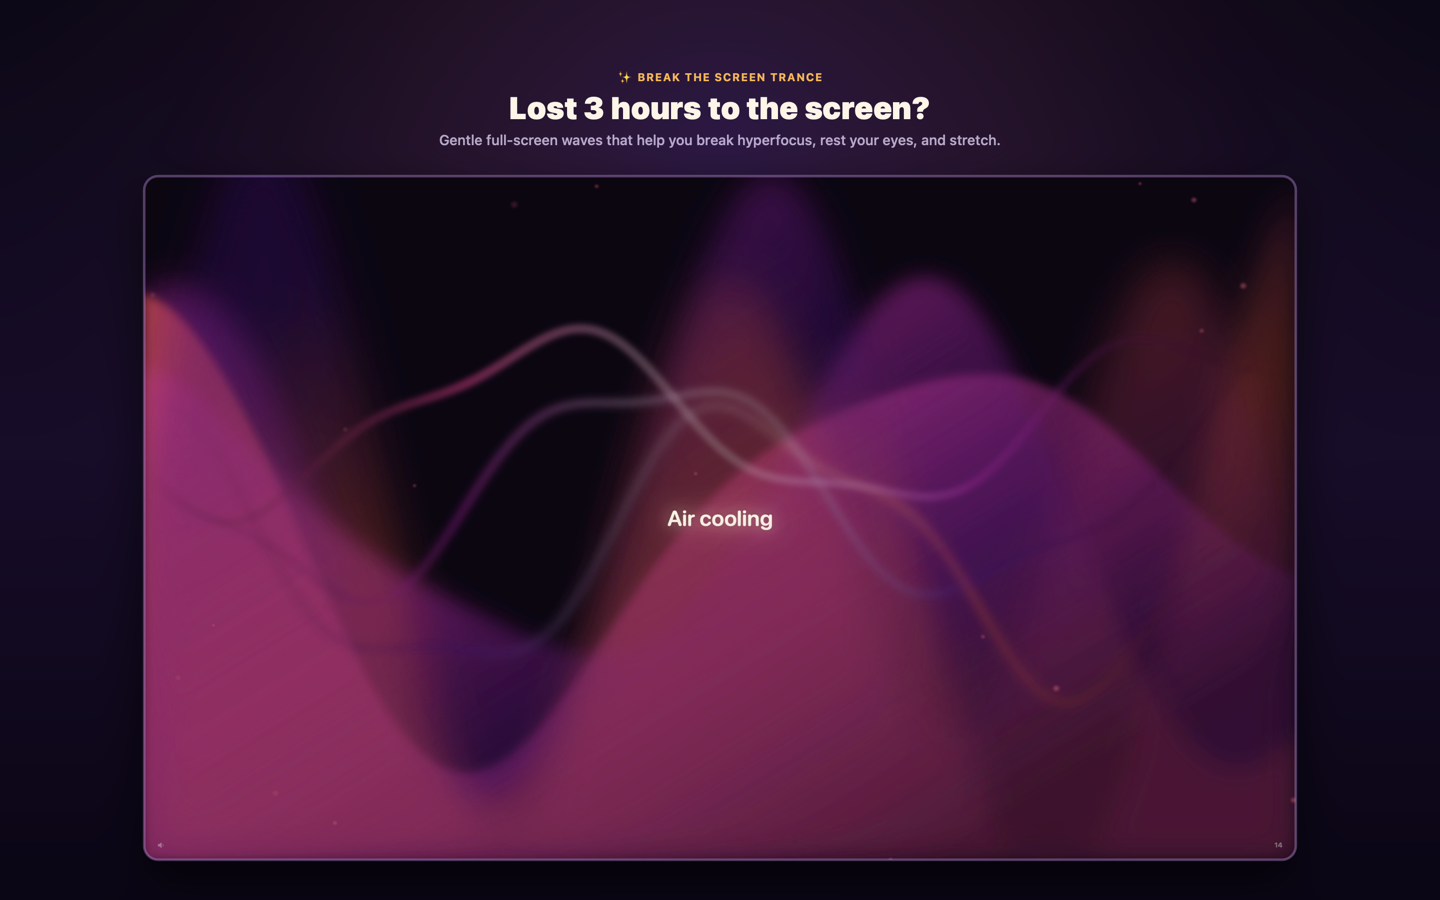
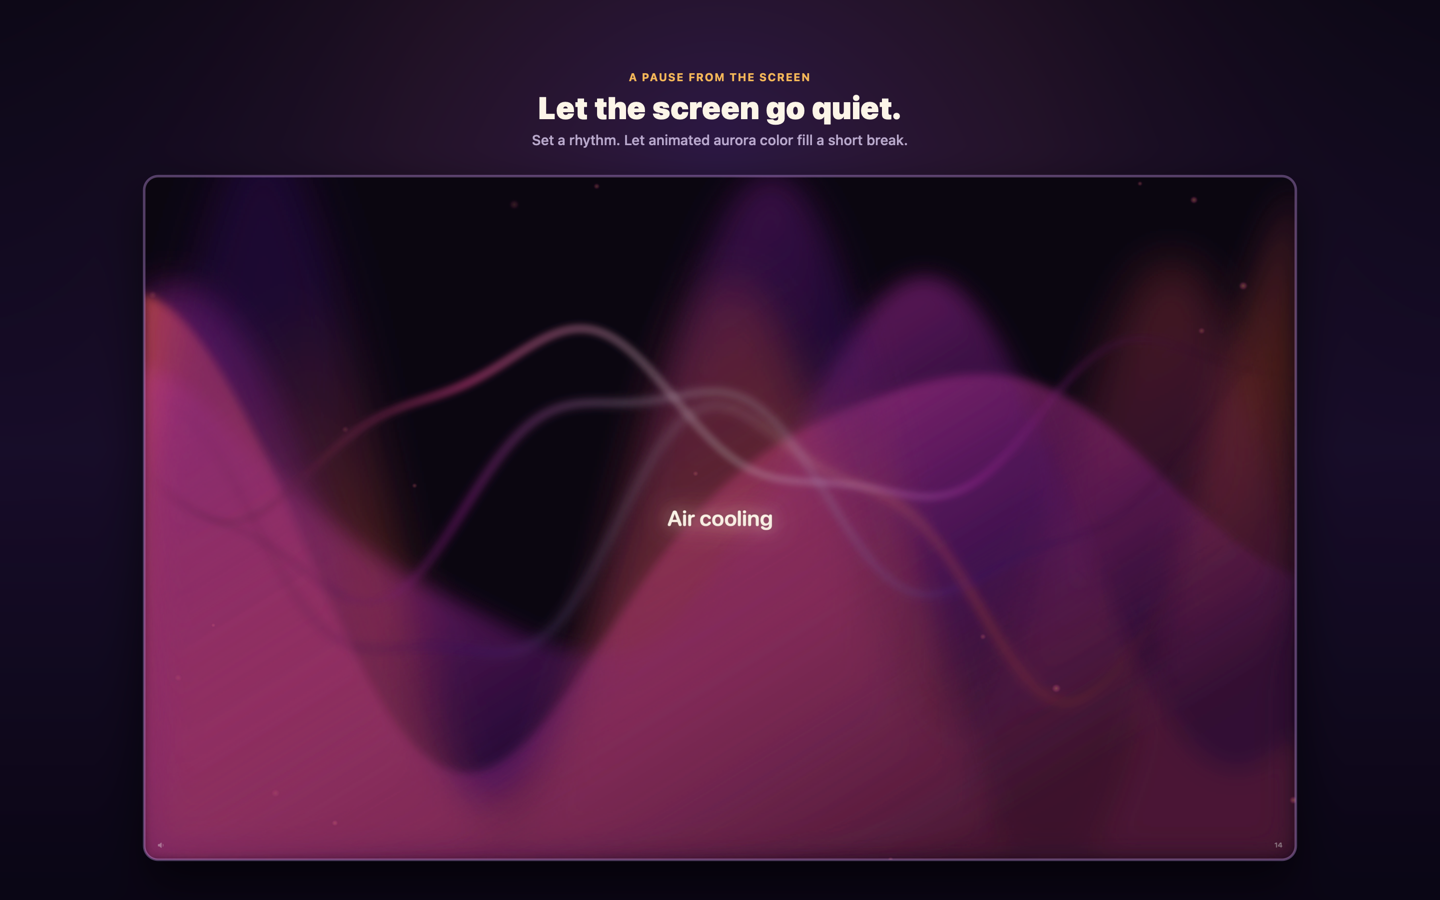
chore: 🍎 update app store copy and screenshot assets for review compliance

Changed region(s): [[0.3125, 0.0622, 0.6875, 0.1867]]

diff --git a/scripts/generate-appstore-cards.swift b/scripts/generate-appstore-cards.swift
@@ -26,37 +26,37 @@ enum CardType {
 let cards: [CardSpec] = [
     CardSpec(
         filename: "01-break-the-spell",
-        badge: "✨ BREAK THE SCREEN TRANCE",
-        headline: "Lost 3 hours to the screen?",
-        subheadline: "Gentle full-screen waves that help you break hyperfocus, rest your eyes, and stretch.",
+        badge: "A PAUSE FROM THE SCREEN",
+        headline: "Let the screen go quiet.",
+        subheadline: "Set a rhythm. Let animated aurora color fill a short break.",
         type: .heroOverlay(imageName: "screenshots/aurora-2880x1800.png")
     ),
     CardSpec(
         filename: "02-street-smart-wisdom",
-        badge: "🔮 ABSTRACT MYSTICAL SPELLS",
-        headline: "Never the same line twice.",
-        subheadline: "Combinatorial entropy tuned to the hour, the moon, and space. Spells to rest on, not orders.",
+        badge: "OPTIONAL BREAK MESSAGES",
+        headline: "A line for the moment.",
+        subheadline: "Short phrases shift with the hour, with lunar notes at new and full moon.",
         type: .tarotMessages
     ),
     CardSpec(
         filename: "03-hold-to-skip",
-        badge: "⏳ GENTLE FRICTION",
-        headline: "Hard to ignore. Easy to leave.",
-        subheadline: "Hold down the ring for a couple of seconds to skip. Just enough time to think twice.",
+        badge: "HOLD TO SKIP",
+        headline: "A little room to leave.",
+        subheadline: "Hold briefly to skip. Lock mode hides the skip control.",
         type: .holdToSkip
     ),
     CardSpec(
         filename: "04-living-shaders",
-        badge: "⚙ MODULAR BREAKS & LIVING THEMES",
-        headline: "For eyes, posture, and tea breaks.",
-        subheadline: "10-second glances to 3-minute stretches. Automatically pauses during calls.",
+        badge: "SET YOUR OWN RHYTHM",
+        headline: "Short breaks, your way.",
+        subheadline: "10 seconds to 3 minutes, every 15 minutes to 3 hours.",
         type: .shaderTriptych
     ),
     CardSpec(
         filename: "05-no-subscriptions",
-        badge: "🔒 100% PRIVATE • ZERO SUBSCRIPTIONS",
-        headline: "Pay once. Yours forever.",
-        subheadline: "$19.99 one-time. No accounts, no monthly fees, and zero tracking on your Mac.",
+        badge: "NO ACCOUNT • NO TRACKING",
+        headline: "Private by design.",
+        subheadline: "One purchase. No ads, analytics, subscriptions, or network requests.",
         type: .cartridgeManifesto
     )
 ]
@@ -196,9 +196,9 @@ func drawHeroOverlay(imageName: String, in rect: CGRect, scale: CGFloat, ctx: CG
 
 func drawTarotCards(in rect: CGRect, scale: CGFloat, ctx: CGContext) {
     let quotes = [
-        ("SOFT GEOMETRY", "01 / EYE EASE", "A soft gaze past the monitor. Depth returns naturally."),
-        ("SHOULDERS ADRIFT", "02 / PHYSICAL EASE", "Spacious posture and gentle stillness without force."),
-        ("ZERO LATENCY", "03 / CLEAR HEADSPACE", "A quiet moment of slack while the room renders.")
+        ("SOFT GEOMETRY", "01 / AMBIENT", "A phrase drawn from the message pool."),
+        ("SHOULDERS ADRIFT", "02 / BODY", "A phrase drawn from the message pool."),
+        ("ZERO LATENCY", "03 / SPARK", "A phrase drawn from the message pool.")
     ]
 
     let cardWidth = (rect.width - (40 * scale * 2)) / 3
@@ -322,9 +322,9 @@ func drawHoldToSkipCard(in rect: CGRect, scale: CGFloat, ctx: CGContext) {
 
 func drawShaderTriptych(in rect: CGRect, scale: CGFloat, ctx: CGContext) {
     let images = [
-        ("screenshots/aurora-2880x1800.png", "AURORA", "Dawn & Day Flow"),
-        ("screenshots/ember-2880x1800.png", "EMBER", "Warm Dusk All Day"),
-        ("screenshots/violet-2880x1800.png", "VIOLET", "Electric Night")
+        ("screenshots/aurora-2880x1800.png", "AURORA", "Shifts with the hour"),
+        ("screenshots/ember-2880x1800.png", "EMBER", "Warm all day"),
+        ("screenshots/violet-2880x1800.png", "VIOLET", "Cool all day")
     ]
 
     let itemWidth = (rect.width - (30 * scale * 2)) / 3
@@ -375,10 +375,10 @@ func drawShaderTriptych(in rect: CGRect, scale: CGFloat, ctx: CGContext) {
 
 func drawCartridgeManifesto(in rect: CGRect, scale: CGFloat, ctx: CGContext) {
     let pillars = [
-        ("🔒 100% PRIVATE", "No accounts, no tracking, no ads. Everything stays securely on your Mac."),
-        ("🎨 AURORA IN FOUR MOODS", "Time-aware, warm Ember, cool Violet, or a Surprise that rolls a fresh palette each break."),
-        ("⏳ GENTLE FRICTION", "Hold-to-skip ring gives just enough pause to help you take your break without trapping you."),
-        ("💎 NO SUBSCRIPTIONS", "A single $19.99 purchase. Own it forever without recurring monthly or yearly fees.")
+        ("PREFERENCES STAY LOCAL", "Settings and counts stay on your Mac."),
+        ("FOUR COLORWAYS", "Surprise picks one of three palettes."),
+        ("BREAK ON YOUR TERMS", "Set the interval, length, and skip control."),
+        ("ONE PURCHASE", "No subscription or in-app purchases.")
     ]
 
     let boxWidth = (rect.width - (30 * scale)) / 2
@@ -417,16 +417,12 @@ func drawCartridgeManifesto(in rect: CGRect, scale: CGFloat, ctx: CGContext) {
         titleStr.draw(at: CGPoint(x: boxX + pad, y: boxY + boxHeight - pad - (20 * scale)))
 
         let descFont = NSFont.systemFont(ofSize: 20 * scale, weight: .regular)
-        let descStyle = NSMutableParagraphStyle()
-        descStyle.lineSpacing = 6 * scale
         let descAttrs: [NSAttributedString.Key: Any] = [
             .font: descFont,
-            .foregroundColor: NSColor(red: 0.92, green: 0.88, blue: 0.98, alpha: 0.85),
-            .paragraphStyle: descStyle
+            .foregroundColor: NSColor(red: 0.92, green: 0.88, blue: 0.98, alpha: 0.85)
         ]
         let descStr = NSAttributedString(string: p.1, attributes: descAttrs)
-        let descRect = CGRect(x: boxX + pad, y: boxY + pad, width: boxWidth - (pad * 2), height: boxHeight - pad - (60 * scale))
-        descStr.draw(in: descRect)
+        descStr.draw(at: CGPoint(x: boxX + pad, y: boxY + pad))
     }
 }
 

diff --git a/Sources/Spellbreak/PreferencesView.swift b/Sources/Spellbreak/PreferencesView.swift
@@ -335,8 +335,8 @@ struct PreferencesView: View {
             // list reads calmer, and full-width rows give the subtitles room.
             VStack(spacing: 0) {
                 ToggleRow(
-                    title: "Unskippable",
-                    subtitle: "The break holds until it's done",
+                    title: "Lock mode",
+                    subtitle: "Hide the hold-to-skip control",
                     isOn: lockMode,
                     soundManager: soundManager
                 ) { lockMode = $0 }
@@ -344,8 +344,8 @@ struct PreferencesView: View {
                 rowDivider
 
                 ToggleRow(
-                    title: "Heads-Up",
-                    subtitle: "A countdown before the spell lands",
+                    title: "Heads-up",
+                    subtitle: "A notification before each break",
                     isOn: breakWarningEnabled,
                     soundManager: soundManager
                 ) { breakWarningEnabled = $0 }
@@ -353,8 +353,8 @@ struct PreferencesView: View {
                 rowDivider
 
                 ToggleRow(
-                    title: "Not While Fullscreen",
-                    subtitle: "Waits out games, films and presentations",
+                    title: "Pause while busy",
+                    subtitle: "Waits for full-screen apps and active mic use",
                     isOn: deferDuringFullscreen,
                     soundManager: soundManager
                 ) { deferDuringFullscreen = $0 }
@@ -601,19 +601,19 @@ struct PreferencesView: View {
                     Spacer()
                 }
 
-                Text("Every break writes its own line. Never the same one twice.")
+                Text("A short break timer that lives in your menu bar.")
                     .font(.system(size: 13, weight: .medium))
                     .foregroundColor(.spellCream.opacity(0.82))
                     .fixedSize(horizontal: false, vertical: true)
                     .lineSpacing(3)
 
-                Text("It knows the hour, and it knows the moon. Dawn comes in soft, 2am gets knowing, a full moon shows off a little. Skip a few and it notices, gently.")
+                Text("Choose a break rhythm, set its length, and pick the colors and sound. Break messages are optional.")
                     .font(.system(size: 13, weight: .regular))
                     .foregroundColor(.spellCream.opacity(0.66))
                     .fixedSize(horizontal: false, vertical: true)
                     .lineSpacing(3)
 
-                Text("Twenty minutes on, twenty seconds off. Or make it a tea timer, a stretch bell, a nudge to go look out the window at something far away.")
+                Text("Breaks last 10 seconds to 3 minutes, at intervals from 15 minutes to 3 hours.")
                     .font(.system(size: 13, weight: .regular))
                     .foregroundColor(.spellCream.opacity(0.66))
                     .fixedSize(horizontal: false, vertical: true)
@@ -632,7 +632,7 @@ struct PreferencesView: View {
             .frostedCard()
             .padding(.horizontal, UI.sidePadding)
 
-            Text("Made by Pablo in Melbourne. With love and coffee.")
+            Text("Made by Pablo.")
                 .font(.system(size: 12, weight: .medium))
                 .foregroundColor(.spellCream.opacity(0.42))
                 .padding(.horizontal, UI.sidePadding + 4)

diff --git a/APP_STORE.md b/APP_STORE.md
@@ -1,103 +1,59 @@
-# Spellbreak - App Store Listing
+# Spellbreak — App Store Listing
 
 ## App Name
+
 Spellbreak
 
-## Subtitle (30 chars)
+## Subtitle
+
 Break the screen trance
 
-## Promotional Text (170 chars max)
-Lost 3 hours to a screen trance? Spellbreak brings gentle, full-screen breaks that help you unclench, rest your eyes, drink tea, and break ADHD hyperfocus. Pay once.
+## Promotional Text
+
+A menu bar break timer for macOS. Set a rhythm, choose a short pause, and let animated color fill the screen for a moment.
 
 ## Description
 
-Lost three hours to a screen trance?
-Shoulders up around your ears?
-Forgot to drink water, stretch, or feed the cat?
+Spellbreak is a break timer for your Mac's menu bar. Choose how often breaks arrive and how long they last. When one begins, a full screen color field fills your displays for a short pause.
 
-Spellbreak breaks the digital hypnosis. Every 20 minutes (or whatever rhythm you cast), your screen transforms into breathing aurora waves — giving your eyes, body, and mind a real moment to reset.
+Choose a look: Aurora shifts with the time of day, Ember stays warm, Violet stays cool, and Surprise picks one of the three for each break. Turn the optional message on or off, and adjust the sound to suit the room.
 
-✨ BREAK THE TRANCE, RECLAIM YOUR BODY
-• Break ADHD hyperfocus & doomscroll loops
-• Rest your eyes with the classic 20-20-20 rule
-• Drop your shoulders, unclench your jaw, and stretch your spine
-• A gentle nudge to brew tea, hydrate, and look out the window
+Set a heads up notification, start Spellbreak at login, or let it defer breaks while a full screen app is open or microphone input is active. Lock mode hides the hold to skip control.
 
-🔮 ORGANICALLY GENERATED WORDS
-Every break writes its own line — never the same one twice.
-Tuned to the hour, the moon, and your working pace. Street-smart mystical nudges that know your patterns, not generic corporate wellness lectures:
-• "The trance gets comfortable."
-• "Your shoulders holding court since Tuesday?"
-• "Screen's got your number."
+Breaks last 10 seconds to 3 minutes, at intervals from 15 minutes to 3 hours. Spellbreak runs on macOS 13 or later.
 
-⚙ MODULAR & BUILT FOR YOUR DAY
-• Flexible breaks: 10-second glances to 3-minute stretches, every 15 minutes to 3 hours
-• Aurora in four moods: time-aware, always-warm Ember, always-cool Violet, plus Surprise
-• Time-aware palettes: soft dawn rose, golden midday, twilight violet, deep night
-• Floating countdown pill gives a gentle heads-up before a break lands
-• Respectful hold-to-skip: just enough friction to make you pause and think twice
-• Smart pauses: automatically waits out full-screen movies, calls, and games
-
-🔒 100% PRIVATE • ZERO SUBSCRIPTIONS
-• No accounts. No tracking. No ads. Zero network requests.
-• Works completely offline. Everything stays on your Mac.
-• $19.99 once. Yours forever. No recurring fees.
-
-Break the spell. Your spine and eyes will thank you.
+Your settings and break counts stay on your Mac. Spellbreak has no accounts, ads, analytics, or network requests. It is a one time purchase with no subscription or in app purchases.
 
 ## Keywords
-eye strain, posture, rest, timer, pomodoro, wellness, reminder, focus, health, stretch, 20-20-20, rsi, screen break, adhd, break app, hyperfocus
 
-## Categories
+break timer,screen break,rest,posture,stretch,pomodoro,reminder,focus,aurora,wellness
+
+## Category
+
 Primary: Productivity
-Secondary: Health & Fitness
-
-## Age Rating
-4+
-
-## Price
-$19.99 USD (Tier 19 / $29.99 AUD) — One-time purchase
-
-## In-App Purchases
-None (Pay once, owned forever)
 
 ## What's New (Version 1.1.0)
-• Aurora-only vibes: time-aware, always-warm Ember, always-cool Violet, plus Surprise
-• Break messages are optional — turn the words off for a colour-and-light break
-• Softer, more observational messages that hint instead of ordering
-• Preferences rebalanced into a single tidy behaviour card, no more clipped text
 
-## What's New (Version 1.0.4)
-• Softer light, warmer backgrounds, and the app introduces itself
-• Surprise Me theme option rolls one of the three themes fresh for every break
-• Full App Store compliance and refined Preferences layout
-• Native macOS 13+ support with zero data tracking
+• Choose Aurora, Ember, Violet, or Surprise.
+• Hide the message for a word free break.
+• Adjust break timing, sound, and reminders in Preferences.
 
-## What's New (Version 1.0.1)
-• First launch now opens Preferences so you can cast your first break right away
-• Native menu bar icon that follows your light/dark menu bar
-• Break intervals now include the classic 20-20-20 and pomodoro settings
-• Preferences layout polish
+## Screenshots
 
-## What's New (Version 1.0)
-• Initial release
-• NY tarot reader message system
-• Three visual themes
-• Time-based color palettes
-• Hold-to-skip mechanism
-
-## Screenshots (Story Cards in screenshots/appstore/)
-1. **01-break-the-spell-2880x1800.png** — "Lost 3 hours to the screen? Break ADHD hyperfocus & rest your eyes."
-2. **02-street-smart-wisdom-2880x1800.png** — "Never the same line twice. Organically generated words tuned to the hour & moon."
-3. **03-hold-to-skip-2880x1800.png** — "Hard to ignore. Easy to leave. Gentle hold-to-skip friction."
-4. **04-living-shaders-2880x1800.png** — "Modular breaks from 20s to 15m. Four living aurora moods."
-5. **05-no-subscriptions-2880x1800.png** — "Pay once. Yours forever. 100% Private, no subscriptions."
+1. **01-break-the-spell** — A pause from the screen, with animated aurora color.
+2. **02-street-smart-wisdom** — Short generated phrases; messages are optional.
+3. **03-hold-to-skip** — Hold briefly to skip, or enable Lock mode to hide skip controls.
+4. **04-living-shaders** — Breaks from 10 seconds to 3 minutes, every 15 minutes to 3 hours.
+5. **05-no-subscriptions** — Local preferences and counts; no account, tracking, ads, or subscription.
 
 ## Support URL
+
 https://spellbreak.app
 
 ## Marketing URL
+
 https://spellbreak.app
 
 ## Privacy Policy URL
+
 https://spellbreak.app/privacy
